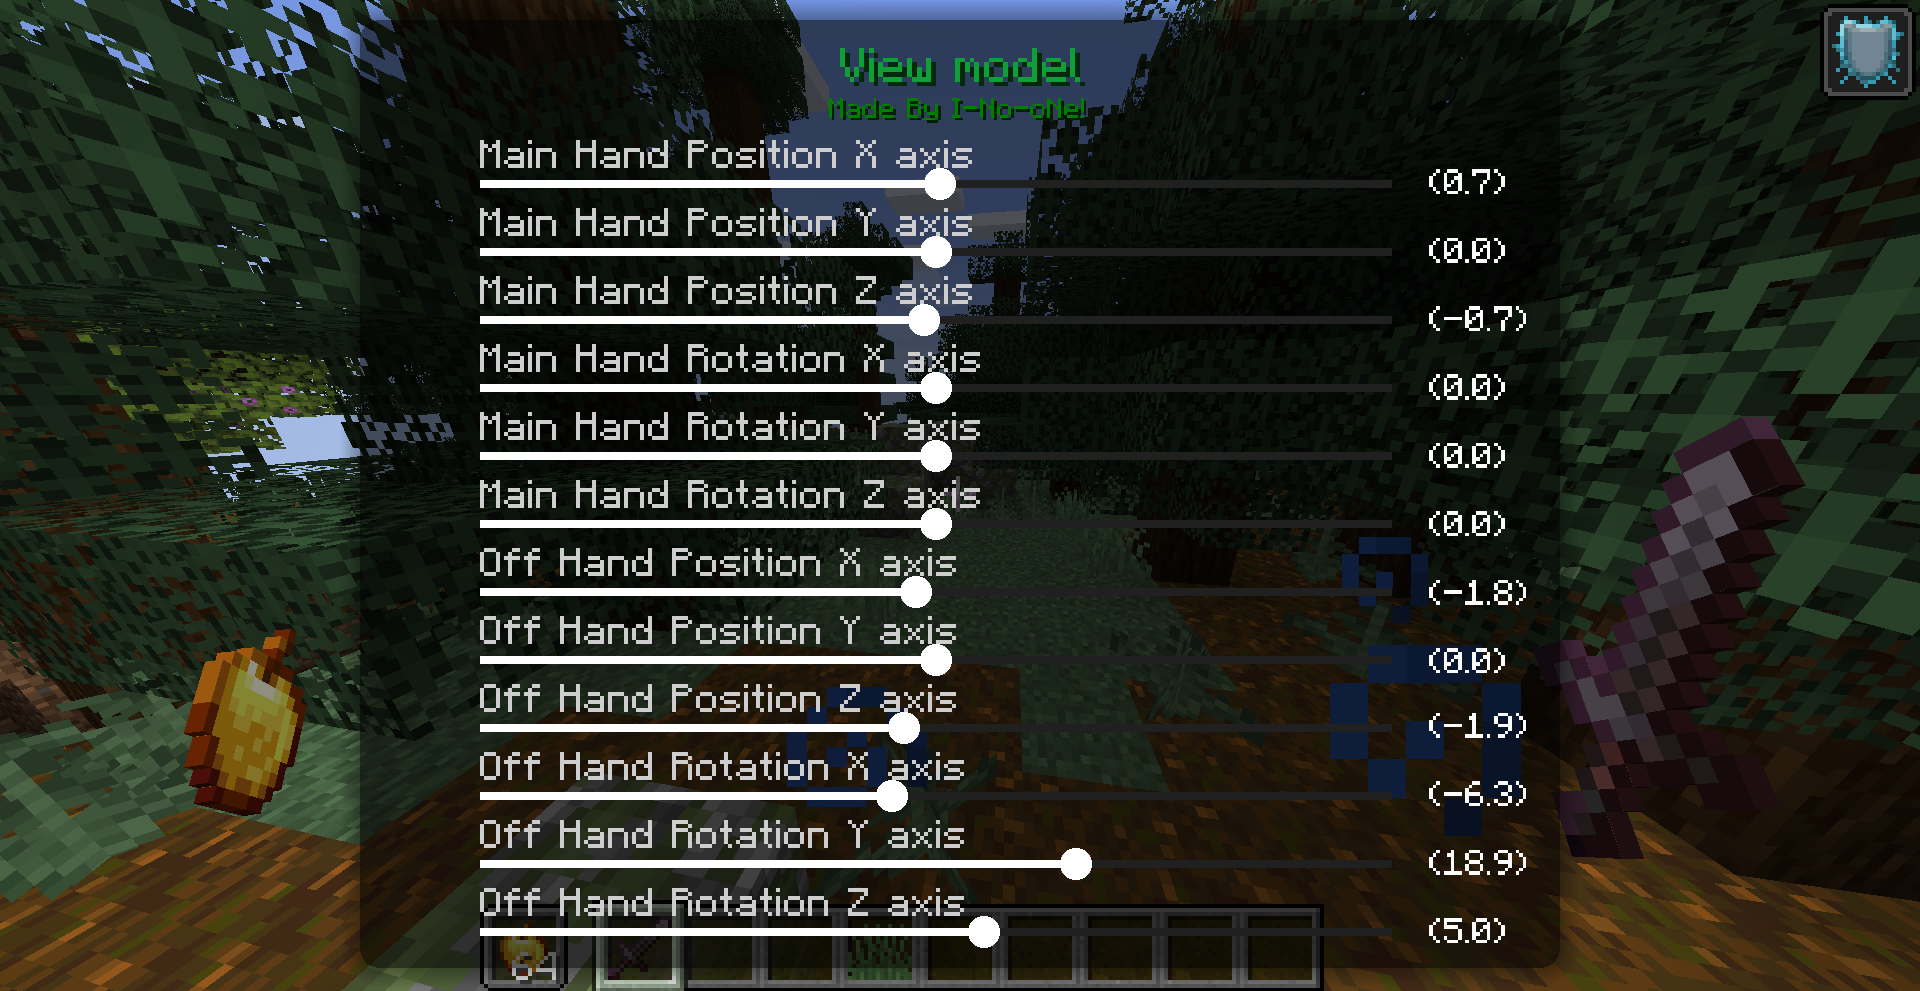
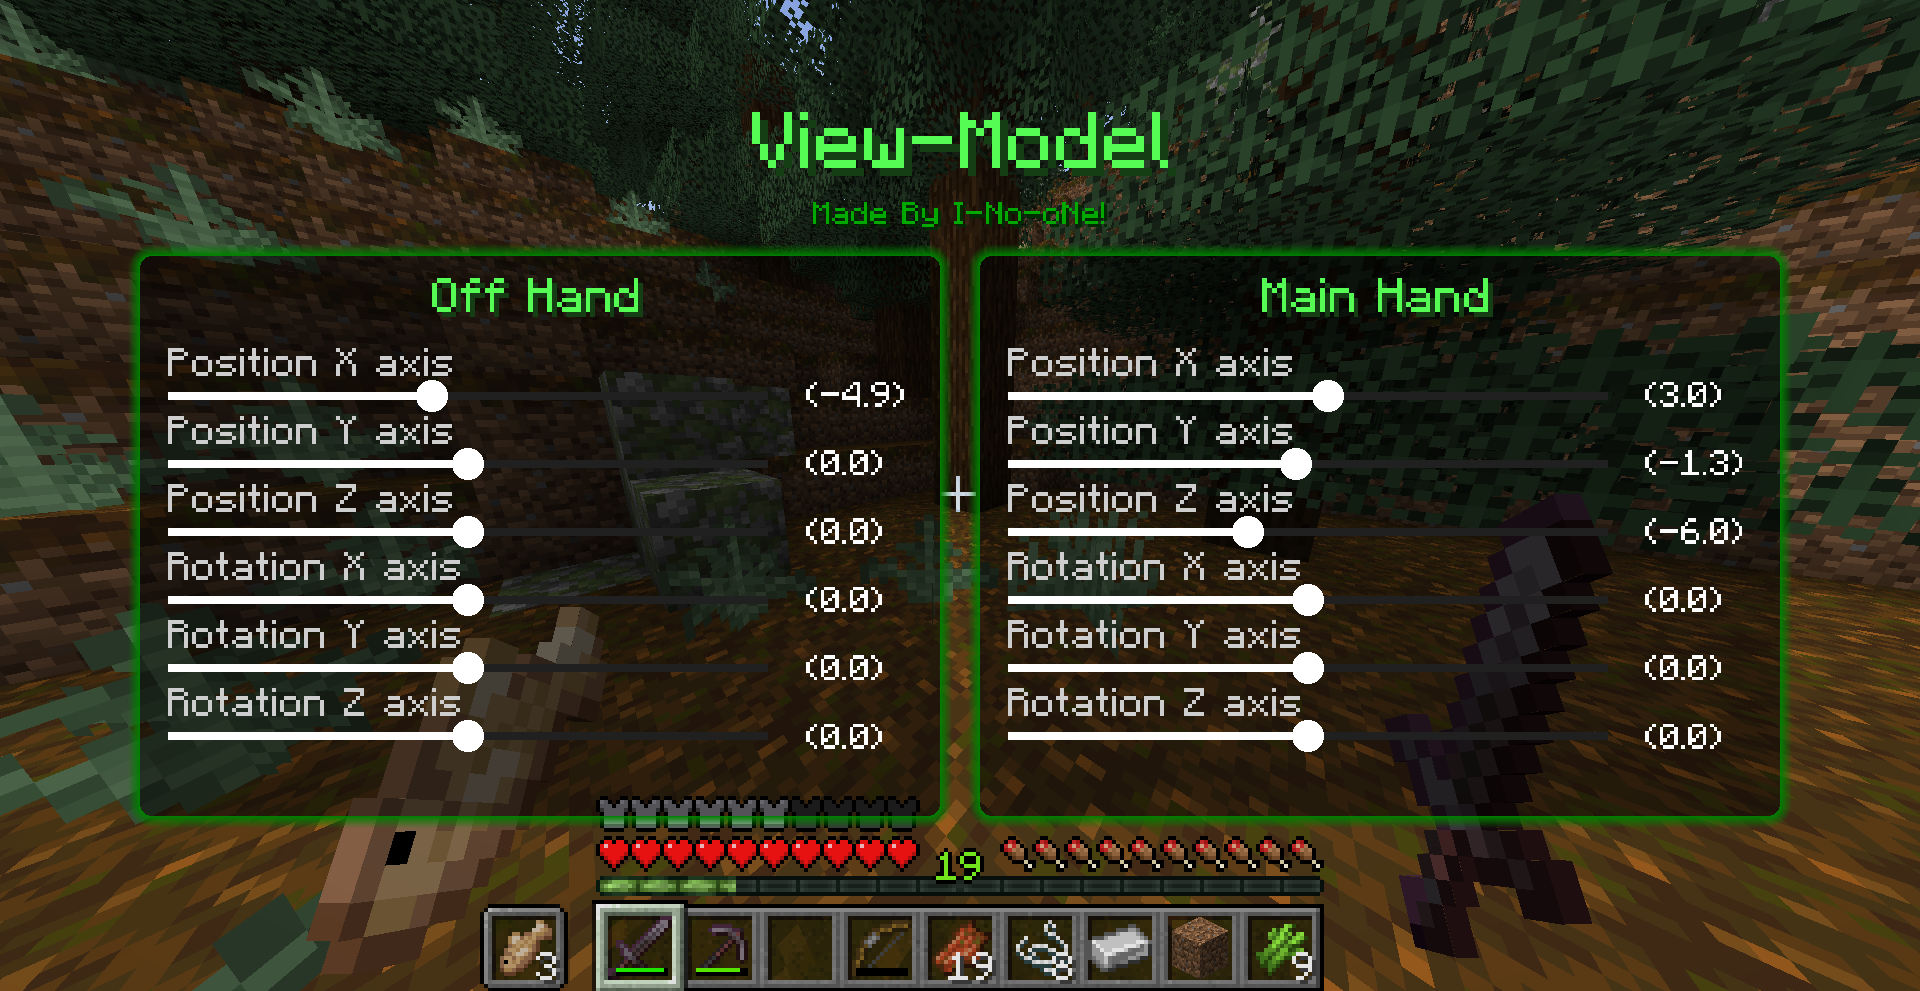
Version 5.0

diff --git a/src/main/java/net/i_no_am/viewmodel/config/ViewModelSettings.java b/src/main/java/net/i_no_am/viewmodel/config/ViewModelSettings.java
@@ -1,9 +1,8 @@
-package net.i_no_am.viewmodel.util;
-
-import net.i_no_am.viewmodel.gui.Config;
+package net.i_no_am.viewmodel.config;
 
 public class ViewModelSettings {
 
+    public static int normal_division = 10;
     private static float main_rotation_x;
     private static float main_position_x;
     private static float main_rotation_z;
@@ -20,17 +19,17 @@ public class ViewModelSettings {
 
     public static void loadConfigValues() {
         main_rotation_x = (float) Config.readDouble("main-rotation-x");
-        main_position_x = (float) Config.readDouble("main-position-x");
+        main_position_x = (float) Config.readDouble("main-position-x") / normal_division;
         main_rotation_z = (float) Config.readDouble("main-rotation-z");
-        main_position_z = (float) Config.readDouble("main-position-z");
+        main_position_z = (float) Config.readDouble("main-position-z") / normal_division;
         main_rotation_y = (float) Config.readDouble("main-rotation-y");
-        main_position_y = (float) Config.readDouble("main-position-y");
+        main_position_y = (float) Config.readDouble("main-position-y") / normal_division;
         off_rotation_x = (float) Config.readDouble("off-rotation-x");
-        off_position_x = (float) Config.readDouble("off-position-x");
+        off_position_x = (float) Config.readDouble("off-position-x") / normal_division;
         off_rotation_z = (float) Config.readDouble("off-rotation-z");
-        off_position_z = (float) Config.readDouble("off-position-z");
+        off_position_z = (float) Config.readDouble("off-position-z") / normal_division;
         off_rotation_y = (float) Config.readDouble("off-rotation-y");
-        off_position_y = (float) Config.readDouble("off-position-y");
+        off_position_y = (float) Config.readDouble("off-position-y") / normal_division;
     }
 
     public static float getMainRotationX() {

diff --git a/src/main/java/net/i_no_am/viewmodel/ViewModel.java b/src/main/java/net/i_no_am/viewmodel/ViewModel.java
@@ -1,12 +1,12 @@
 package net.i_no_am.viewmodel;
 
 import net.i_no_am.viewmodel.client.Global;
-import net.i_no_am.viewmodel.gui.MenuCallbacks;
+import net.i_no_am.viewmodel.gui.events.MenuCallbacks;
 import io.github.itzispyder.improperui.ImproperUIAPI;
 import net.fabricmc.api.ModInitializer;
 import net.fabricmc.fabric.api.client.event.lifecycle.v1.ClientTickEvents;
 import net.fabricmc.fabric.api.client.keybinding.v1.KeyBindingHelper;
-import net.i_no_am.viewmodel.util.ViewModelSettings;
+import net.i_no_am.viewmodel.config.ViewModelSettings;
 import net.minecraft.client.option.KeyBinding;
 import net.minecraft.client.util.InputUtil;
 import org.lwjgl.glfw.GLFW;

diff --git a/src/main/java/net/i_no_am/viewmodel/mixin/MixinHeldItemRenderer.java b/src/main/java/net/i_no_am/viewmodel/mixin/MixinHeldItemRenderer.java
@@ -1,7 +1,7 @@
 package net.i_no_am.viewmodel.mixin;
 
 import net.i_no_am.viewmodel.client.Global;
-import net.i_no_am.viewmodel.util.ViewModelSettings;
+import net.i_no_am.viewmodel.config.ViewModelSettings;
 import net.minecraft.client.network.AbstractClientPlayerEntity;
 import net.minecraft.client.render.VertexConsumerProvider;
 import net.minecraft.client.render.item.HeldItemRenderer;

diff --git a/src/main/java/net/i_no_am/viewmodel/gui/events/MenuCallbacks.java b/src/main/java/net/i_no_am/viewmodel/gui/events/MenuCallbacks.java
@@ -1,4 +1,4 @@
-package net.i_no_am.viewmodel.gui;
+package net.i_no_am.viewmodel.gui.events;
 
 import io.github.itzispyder.improperui.script.CallbackHandler;
 import io.github.itzispyder.improperui.script.CallbackListener;

diff --git a/src/main/java/net/i_no_am/viewmodel/config/Config.java b/src/main/java/net/i_no_am/viewmodel/config/Config.java
@@ -1,4 +1,4 @@
-package net.i_no_am.viewmodel.gui;
+package net.i_no_am.viewmodel.config;
 
 import net.i_no_am.viewmodel.client.Global;
 import io.github.itzispyder.improperui.config.ConfigKey;
